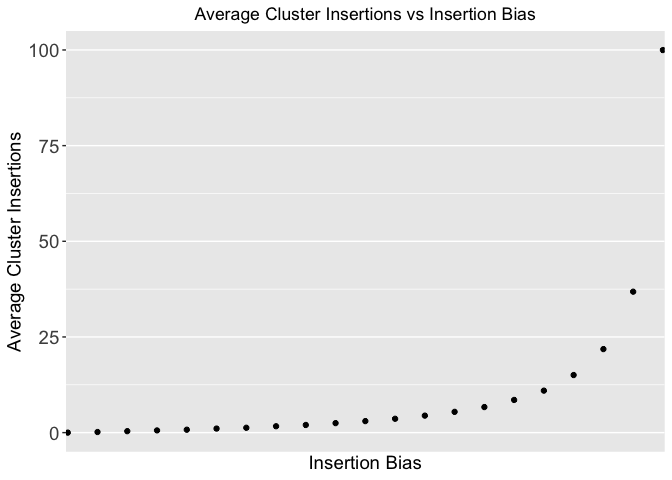
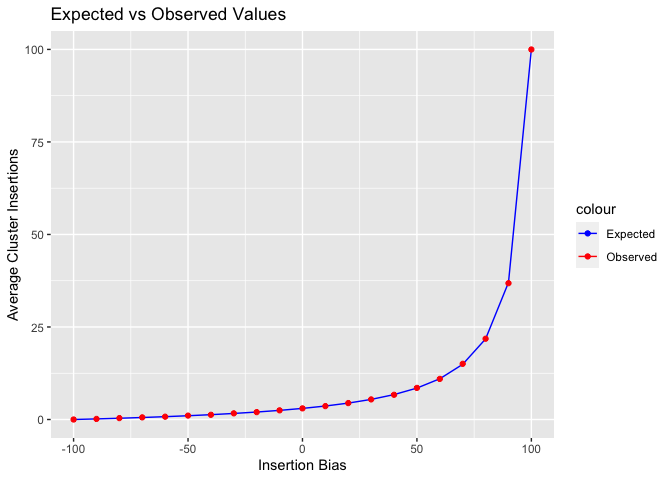
expected

diff --git a/Validation_7_insertion.md b/Validation_7_insertion.md
@@ -138,23 +138,30 @@ totfit <- clufrac*clufit + genfrac*genfit
 p<-(clufrac*clufit)/totfit
 }
 
-# Create a scatterplot
-g_scatter_av_TEs <- ggplot(df2, aes(x = sampleid, y = avcli)) +
-  geom_point() +  # Create a scatterplot
-  ggtitle("Average Cluster Insertions vs Insertion Bias") +
+# Convert sampleid to numeric
+df2$sampleid <- as.numeric(as.character(df2$sampleid))
+
+# Create data frame with bias, theoretical values, and observed values
+df_expected_vs_observed <- data.frame(
+  bias = df2$sampleid,
+  pc = pc(df2$sampleid, 0.03),
+  avcli = df2$avcli
+)
+
+# Multiply pc values by a factor of 100
+df_expected_vs_observed$pc <- df_expected_vs_observed$pc * 100
+
+# Plot expected and observed values
+g_expected_vs_observed <- ggplot(df_expected_vs_observed, aes(x = bias)) +
+  geom_line(aes(y = pc, color = "Expected")) +
+  geom_point(aes(y = avcli, color = "Observed")) +
+  ggtitle("Expected vs Observed Values") +
   ylab("Average Cluster Insertions") +
   xlab("Insertion Bias") +
-  theme(legend.position = "none",
-        axis.text.x = element_text(size = 14, angle = 45, hjust = 1),
-        axis.text.y = element_text(size = 14),
-        axis.title.x = element_text(size = 14),
-        axis.title.y = element_text(size = 14),
-        strip.text = element_text(size = 14),
-        plot.title = element_text(hjust = 0.5)) +
-  scale_x_discrete(labels = labels)
+  scale_color_manual(values = c("Expected" = "blue", "Observed" = "red"))
 
 # Display the plot
-g_scatter_av_TEs
+print(g_expected_vs_observed)
 ```
 
 ![](Validation_7_insertion_files/figure-gfm/data-plotting-1.png)<!-- -->
